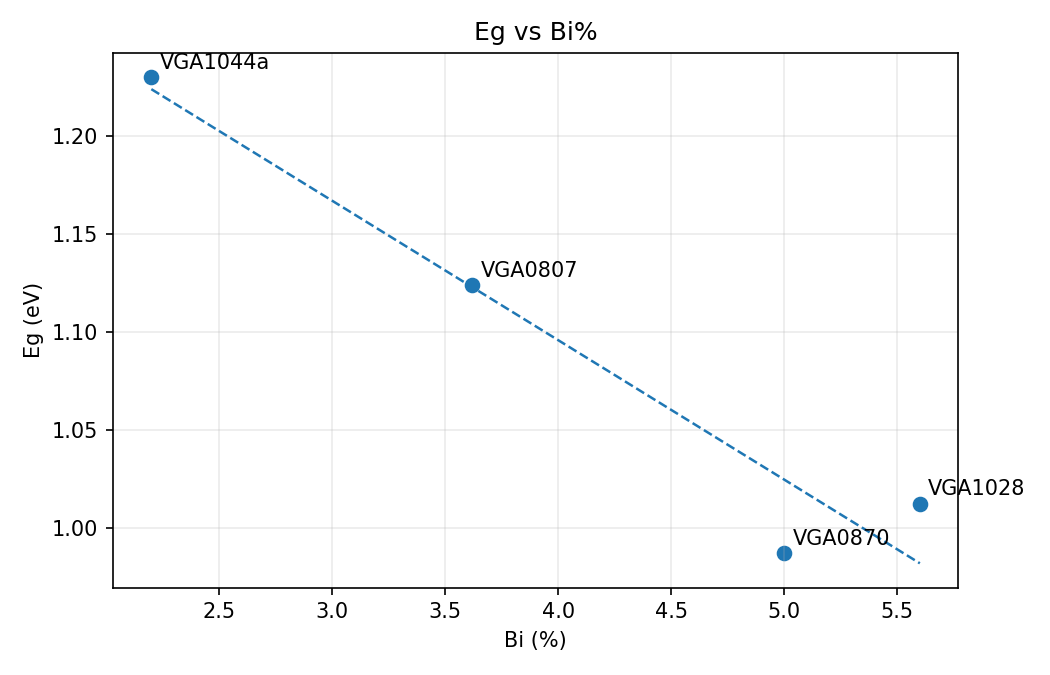
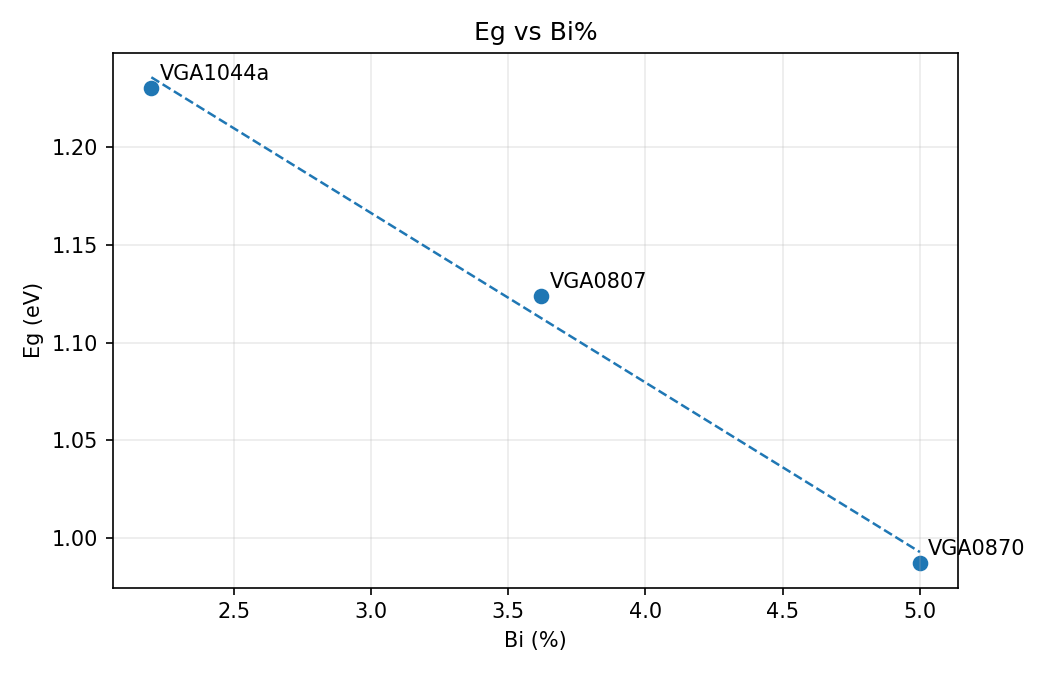
Update GaAsBi results database

diff --git a/README.md b/README.md
@@ -68,7 +68,7 @@ measurement files, unless there is a deliberate reason to share them.
 <!-- comparison-plots:start -->
 ## Current Comparison Plots
 
-Records in database: `4`
+Records in database: `3`
 
 These plots are regenerated by the app from `selected_results.jsonl`.
 